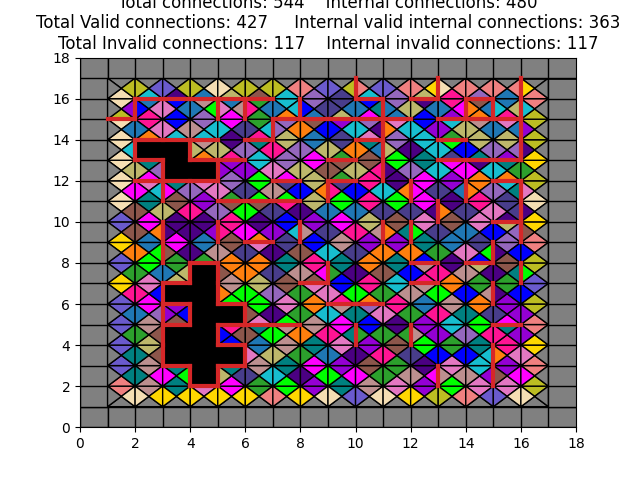
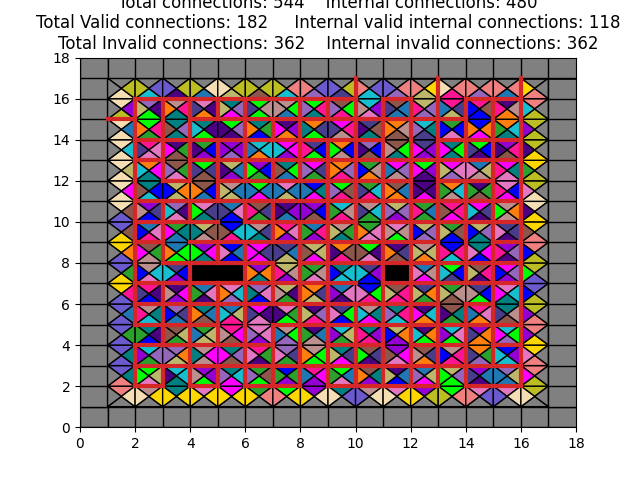
Adding local_swap based in rebuid(destroy(solution) step after rebuild - Best solution found: 91 with Guillaume genetic initializer

diff --git a/Projet/code/solver_lns.py b/Projet/code/solver_lns.py
@@ -19,16 +19,16 @@ def solve_lns(e: EternityPuzzle):
     """
 
     #! Debug option
-    debug = True
+    debug = False
 
     #? Option
     tabu_queue_size=10
-    lns_search_time = 1*60
-    neighborhood_size = 15
+    lns_search_time = 5*60
+    neighborhood_size = 5
     allow_adjacent = True
 
     #?  Solve the border
-    border_time = 1 * 10
+    border_time = 1 * 5
     pop_size = 30
     mutation_rate = 0
     tournament_size = 10
@@ -58,8 +58,7 @@ def lns(e: EternityPuzzle, solution, search_time=30, neighborhood_size=5, allow_
     if debug: visualize(e, solution, "debug/before_destruction")
     start_time = time.time()
     tic = start_time
-    best_solution = deepcopy(solution)
-    n_conflit_best_solution = e.get_total_n_conflict(best_solution)
+    n_conflit_best_solution = e.get_total_n_conflict(solution)
 
     tabu_queue = []
 
@@ -69,12 +68,15 @@ def lns(e: EternityPuzzle, solution, search_time=30, neighborhood_size=5, allow_
         while True:
 
             new_solution = rebuild(*destroy(e, solution, neighborhood_size=neighborhood_size, tabu_idx=tabu_queue, allow_adjacent=allow_adjacent, debug_visualization=debug))
+            if (nb_confllict_new_sol := e.get_total_n_conflict(new_solution)) < e.get_total_n_conflict(solution):
+                solution = new_solution
+                n_conflit_best_solution = nb_confllict_new_sol         
+            
+            new_solution = local_swap(e, solution)
 
             if (nb_confllict_new_sol := e.get_total_n_conflict(new_solution)) < e.get_total_n_conflict(solution):
                 solution = new_solution
-                if nb_confllict_new_sol < n_conflit_best_solution:
-                    best_solution = deepcopy(new_solution)
-                    n_conflit_best_solution = nb_confllict_new_sol
+                n_conflit_best_solution = nb_confllict_new_sol  
 
             while len(tabu_queue) > tabu_queue_size:
                 tabu_queue.pop(0)
@@ -85,8 +87,11 @@ def lns(e: EternityPuzzle, solution, search_time=30, neighborhood_size=5, allow_
             else:
                 break
 
-    return best_solution, n_conflit_best_solution
+    return solution, n_conflit_best_solution
 
+
+def local_swap(e, solution):
+    return local_search_rebuild(*destroy(e, solution, neighborhood_size=4, allow_adjacent=True))
 
 
 def destroy(e: EternityPuzzle, solution, neighborhood_size: int=4, tabu_idx: List=None, allow_adjacent: bool=False, debug_visualization: bool=False):
@@ -154,6 +159,42 @@ def rebuild(e: EternityPuzzle, destroyed_solution, removed_pieces, removed_piece
     return destroyed_solution
 
 
+def local_search_rebuild(e: EternityPuzzle, destroyed_solution, removed_pieces, holes_idx, debug_visualization=False):
+    """ O(len(removed_pieces)!) """
+
+    assert len(removed_pieces) == len(holes_idx)
+
+    if len(holes_idx) == 0:
+        return destroyed_solution
+
+    i = 0
+    solution_found = []
+    while i < len(holes_idx):
+        # Try to fill the hole
+        hole_idx = holes_idx[i]
+        for j, removed_piece in enumerate(removed_pieces):
+            best_fit, number_of_conflit = find_best_fit(e, destroyed_solution, hole_idx, removed_piece) 
+
+            # Copy Args
+            rebuild_solution = copy.deepcopy(destroyed_solution)
+            rebuild_solution[hole_idx] = best_fit
+            rebuild_removed_pieces = copy.deepcopy(removed_pieces)
+            del rebuild_removed_pieces[j]
+            rebuild_holes_idx = copy.deepcopy(holes_idx)
+            del rebuild_holes_idx[i]
+
+            # Fill next hole
+            rebuild_solution = local_search_rebuild(e, rebuild_solution, rebuild_removed_pieces, rebuild_holes_idx)
+            solution_found.append(rebuild_solution)
+
+        i += 1
+
+    sorted_solution = sorted([(solution, e.get_total_n_conflict(solution)) for solution in solution_found], key=lambda x: x[1])
+    best_solution = sorted_solution[0][0]
+
+    return best_solution
+
+
 
 def find_best_fit(e: EternityPuzzle, solution, idx, piece):
     piece_best_fit = sorted([(rotated_piece, get_number_conflict(e, solution, idx, rotated_piece)) for rotated_piece in e.generate_rotation(piece)], key=lambda x: x[1])
@@ -196,11 +237,11 @@ def get_number_conflict(e: EternityPuzzle, solution, idx, piece):
     nb_conflict = 0
     if piece[WEST]  != solution[idx_west][EAST] and solution[idx_west][EAST] != BLACK:
         nb_conflict += 1
-    if piece[NORTH] != solution[idx_north][SOUTH] and solution[idx_west][SOUTH] != BLACK:
+    if piece[NORTH] != solution[idx_north][SOUTH] and solution[idx_north][SOUTH] != BLACK:
         nb_conflict += 1
-    if piece[EAST]  != solution[idx_east][WEST] and solution[idx_west][WEST] != BLACK:
+    if piece[EAST]  != solution[idx_east][WEST] and solution[idx_east][WEST] != BLACK:
         nb_conflict += 1
-    if piece[SOUTH] != solution[idx_south][NORTH] and solution[idx_west][NORTH] != BLACK:
+    if piece[SOUTH] != solution[idx_south][NORTH] and solution[idx_south][NORTH] != BLACK:
         nb_conflict += 1
 
     return nb_conflict
